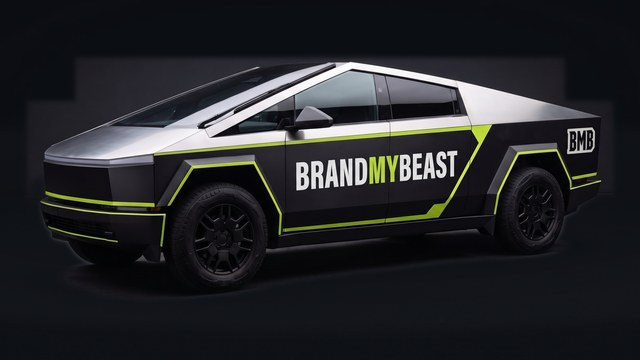
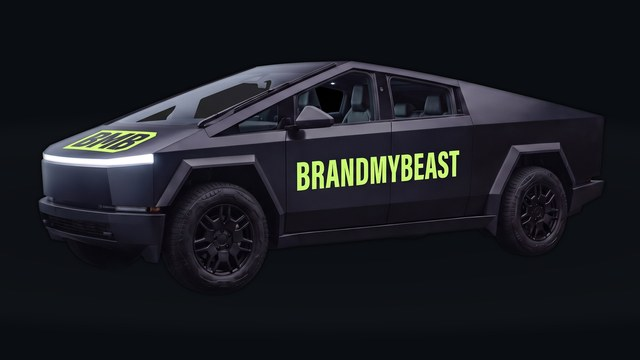
Ship locked hero-master (all-caps R1) to homepage (#422)
* feat(hero): ship locked hero-master still to homepage

Replace the wrap-C JPEGs with the locked all-caps R1 still at the existing
1280 and 640 public paths. Lead and caption stay concept photo.

* fix(test): align Playwright suite to the 11-seat board

Retarget stale 12-seat and seat-9 assertions to the locked inventory:
Eleven companies, tailgate as seat 10, legend 1-11, and current openings.

---------

diff --git a/tests/slice-16-48-demo-seed-numbers.spec.ts b/tests/slice-16-48-demo-seed-numbers.spec.ts
@@ -16,11 +16,11 @@ import { seedDemoMixedBoard } from "../src/lib/seed-demo";
 import { vercelJsonIsHoldOrMainOnlyRestore } from "../src/lib/vercel-git-deploy";
 
 /**
- * Slice 16.48 — local seed includes numbered standing on seat 1 and 9.
+ * Slice 16.48 — local seed includes numbered standing on seat 1 and 10.
  * Counts stay 3 pending / 1 approved / 1 outbid. CLOSE_AT null. No Stripe.
  */
 
-test.describe("slice 16.48: demo seed numbered standing on seats 1 and 9", () => {
+test.describe("slice 16.48: demo seed numbered standing on seats 1 and 10", () => {
   test.beforeEach(async () => {
     process.env.INTENT_MODE = "memory";
     await resetIntentStoreForTests();
@@ -34,7 +34,7 @@ test.describe("slice 16.48: demo seed numbered standing on seats 1 and 9", () =>
     expect(BRAND.name).toBe("BrandMyBeast");
     expect(formatUsd(FLOOR_USD)).toBe("$58,000");
     expect(panelBoardMarkFor("hood").n).toBe(1);
-    expect(panelBoardMarkFor("tailgate").n).toBe(9);
+    expect(panelBoardMarkFor("tailgate").n).toBe(10);
   });
 
   test("package.json has no stripe", () => {
@@ -45,7 +45,7 @@ test.describe("slice 16.48: demo seed numbered standing on seats 1 and 9", () =>
     expect(vercelJsonIsHoldOrMainOnlyRestore()).toBe(true);
   });
 
-  test("seed lists standing on seat 1 and seat 9", async () => {
+  test("seed lists standing on seat 1 and seat 10", async () => {
     const seeded = await seedDemoMixedBoard();
     expect(seeded.ok).toBe(true);
     if (!seeded.ok) return;
@@ -55,7 +55,7 @@ test.describe("slice 16.48: demo seed numbered standing on seats 1 and 9", () =>
     expect(seeded.closeAt).toBeNull();
     expect(seeded.numberedStanding).toEqual([
       { n: 1, panelId: "hood", status: "listed" },
-      { n: 9, panelId: "tailgate", status: "listed" },
+      { n: 10, panelId: "tailgate", status: "listed" },
     ]);
 
     const listed = await listBidsWithStatus("listed");
@@ -65,7 +65,7 @@ test.describe("slice 16.48: demo seed numbered standing on seats 1 and 9", () =>
     const sh = readFileSync(join(process.cwd(), "scripts/seed-demo.sh"), "utf8");
     expect(sh).toContain("16.48");
     expect(sh).toContain("seat 1");
-    expect(sh).toContain("seat 9");
+    expect(sh).toContain("seat 10");
     expect(sh).not.toMatch(/\bCLOSE_AT=/);
   });
 });

diff --git a/tests/slice-16-39-callout-contrast.spec.ts b/tests/slice-16-39-callout-contrast.spec.ts
@@ -41,6 +41,17 @@ test.describe("slice 16.39: callout contrast on stainless", () => {
   test("badge 3 against the still is at least 4.5:1", async ({ page }) => {
     await page.setViewportSize({ width: 1280, height: 900 });
     await page.goto("/panels/hood");
+    await page.locator(".truck-view-photo").evaluate((el) => {
+      const img = el as HTMLImageElement;
+      if (img.complete && img.naturalWidth > 0) return;
+      return new Promise<void>((resolve, reject) => {
+        img.addEventListener("load", () => resolve(), { once: true });
+        img.addEventListener("error", () => reject(new Error("still failed")), {
+          once: true,
+        });
+      });
+    });
+    await expect(page.getByTestId("view-panel-board-driver-3")).toBeVisible();
     const sample = await page.evaluate(() => {
       const callout = document.querySelector(
         '[data-testid="view-panel-board-driver-3"]',
@@ -70,7 +81,7 @@ test.describe("slice 16.39: callout contrast on stainless", () => {
         img.naturalWidth - 1,
         Math.max(
           0,
-          Math.round(((cr.right + 12 - ir.left) / ir.width) * img.naturalWidth),
+          Math.round(((cr.right + 36 - ir.left) / ir.width) * img.naturalWidth),
         ),
       );
       const sy = Math.min(

diff --git a/tests/slice-0-9-public-copy.spec.ts b/tests/slice-0-9-public-copy.spec.ts
@@ -43,10 +43,15 @@ test.describe("slice 0.9: PUBLIC_COPY v2 on /", () => {
   });
 
   test("PUBLIC_COPY module matches locked H1, lead, and Notify me", () => {
+    const md = readFileSync(join(process.cwd(), "PUBLIC_COPY.md"), "utf8");
     expect(PUBLIC_COPY.hero.h1).toBe(
       "Put your brand on the truck people already photograph.",
     );
-    expect(PUBLIC_COPY.hero.lead).toBe("Concept preview");
+    expect(PUBLIC_COPY.hero.lead).toBe("concept photo");
+    expect(PUBLIC_COPY.hero.caption).toBe("concept photo");
+    expect(md).toContain("- Lead: `concept photo`");
+    expect(md).toContain("- Hero caption: `concept photo`");
+    expect(md).not.toMatch(/- Lead: `Concept preview`/);
     expect(PUBLIC_COPY.waitlist.button).toBe("Notify me");
     expect(PUBLIC_COPY.board.raisedLabel.toLowerCase()).not.toContain(
       "pledged intent",
@@ -87,6 +92,7 @@ test.describe("slice 0.9: PUBLIC_COPY v2 on /", () => {
     expect(lower).not.toMatch(/pledged intent/);
     expect(lower).not.toMatch(/operator[- ]financ/);
     expect(html).toContain(PUBLIC_COPY.hero.h1);
+    expect(html).toContain("concept photo");
     expect(html).toContain("Notify me");
   });
 });

diff --git a/tests/slice-16-37-number-visual-diff.spec.ts b/tests/slice-16-37-number-visual-diff.spec.ts
@@ -39,11 +39,11 @@ test.describe("slice 16.37: numbers, not kerning", () => {
 
   test("this spec does not pixel-diff fixtures", () => {
     expect(missingBoardNumbers([1, 2, 3])).toEqual([
-      4, 5, 6, 7, 8, 9, 10, 11, 12,
+      4, 5, 6, 7, 8, 9, 10, 11,
     ]);
-    expect(
-      missingBoardNumbers([1, 2, 3, 4, 5, 6, 7, 8, 9, 10, 11, 12]),
-    ).toEqual([]);
+    expect(missingBoardNumbers([1, 2, 3, 4, 5, 6, 7, 8, 9, 10, 11])).toEqual(
+      [],
+    );
     const helper = readFileSync(
       join(process.cwd(), "src/lib/board-visual-diff.ts"),
       "utf8",
@@ -51,7 +51,7 @@ test.describe("slice 16.37: numbers, not kerning", () => {
     expect(helper).not.toMatch(/screenshot|pixelmatch/i);
   });
 
-  test("hero callouts 1 through 12 are present", async ({ page }) => {
+  test("legend numbers 1 through 11 are present", async ({ page }) => {
     await page.setViewportSize({ width: 1280, height: 900 });
     await page.goto("/");
     const present: number[] = [];

diff --git a/tests/slice-16-22-operator-list-columns.spec.ts b/tests/slice-16-22-operator-list-columns.spec.ts
@@ -85,7 +85,7 @@ test.describe("slice 16.22: operator list columns", () => {
       { key: "panel", value: mark.name },
       { key: "brand", value: "Column Brand" },
       { key: "trade", value: "column trade" },
-      { key: "amount", value: formatUsd(1600) },
+      { key: "amount", value: formatUsd(4500) },
       { key: "status", value: intentStatusLabel(placed.bid.status) },
     ]);
     expect(JSON.stringify(columns)).not.toContain("ops1622-secret-user");
@@ -130,7 +130,7 @@ test.describe("slice 16.22: operator list columns", () => {
       "column ui trade",
     );
     await expect(page.getByTestId(`operator-col-amount-${bidId}`)).toHaveText(
-      "$1,600",
+      "$4,500",
     );
     await expect(page.getByTestId(`operator-col-status-${bidId}`)).toHaveText(
       "Listed",

diff --git a/tests/campaign.spec.ts b/tests/campaign.spec.ts
@@ -61,14 +61,8 @@ test.describe("P1 waitlist campaign locks", () => {
     await expect(page.getByTestId("hero-preview-label")).toHaveText(
       PUBLIC_COPY.hero.caption,
     );
-    await expect(page.getByTestId("hero-preview-label")).toContainText(
-      "Concept preview",
-    );
-    await expect(page.getByTestId("hero-preview-label")).toContainText(
-      "house wrap",
-    );
-    await expect(page.getByTestId("hero-preview-label")).toContainText(
-      "Numbers live on the board",
+    await expect(page.getByTestId("hero-preview-label")).toHaveText(
+      "concept photo",
     );
     await expect(page.getByTestId("hero-panel-board")).toHaveCount(0);
     await expect(page.locator("#hero-title")).toHaveText(HERO_TITLE);

diff --git a/tests/ux-locks-concept-board.spec.ts b/tests/ux-locks-concept-board.spec.ts
@@ -43,7 +43,10 @@ test.describe("UX locks: concept lead, baked board, etch, CTA, wrap blend", () =
     await page.evaluate(() => document.fonts.ready);
 
     await expect(page.locator("#hero-title")).toHaveText(PUBLIC_COPY.hero.h1);
-    await expect(page.locator(".hero-lead")).toHaveText("Concept preview");
+    await expect(page.locator(".hero-lead")).toHaveText("concept photo");
+    await expect(page.getByTestId("hero-preview-label")).toHaveText(
+      "concept photo",
+    );
     await expect(page.locator(".hero-lead")).not.toContainText("Twelve companies");
     await expect(page.getByTestId("hero-truck-preview")).toHaveAttribute(
       "href",

diff --git a/tests/slice-20-9-waitlist-meta-description.spec.ts b/tests/slice-20-9-waitlist-meta-description.spec.ts
@@ -22,7 +22,7 @@ import { vercelJsonIsHoldOrMainOnlyRestore } from "../src/lib/vercel-git-deploy"
 const ROOT = process.cwd();
 const LOCKED_H1 = "Put your brand on the truck people already photograph.";
 const WAITLIST_DESCRIPTION =
-  "Twelve companies. One Cyberbeast. Join the list. Hit $58,000 and the truck is ordered and wrapped for a year. Miss it and nobody pays.";
+  "Eleven companies. One Cyberbeast. Join the list. Hit $58,000 and the truck is ordered and wrapped for a year. Miss it and nobody pays.";
 
 test.describe("slice 20.9: waitlist-era meta description", () => {
   test("campaign money fences stay locked — CLOSE_AT null", () => {

diff --git a/tests/slice-7-10-layout-meta.spec.ts b/tests/slice-7-10-layout-meta.spec.ts
@@ -46,7 +46,7 @@ test.describe("slice 7.10: layout meta matches PUBLIC_COPY", () => {
     );
     expect(PUBLIC_COPY.meta.title).not.toMatch(/advertise on a Cybertruck/i);
     expect(PUBLIC_COPY.meta.description).toBe(
-      "Twelve companies. One Cyberbeast. Join the list. Hit $58,000 and the truck is ordered and wrapped for a year. Miss it and nobody pays.",
+      "Eleven companies. One Cyberbeast. Join the list. Hit $58,000 and the truck is ordered and wrapped for a year. Miss it and nobody pays.",
     );
     expect(PUBLIC_COPY.meta.description).not.toMatch(/Bid on a panel/);
   });

diff --git a/src/lib/public-copy.ts b/src/lib/public-copy.ts
@@ -33,13 +33,12 @@ export const PUBLIC_COPY = {
   },
   hero: {
     h1: "Put your brand on the truck people already photograph.",
-    lead: "Concept preview",
+    lead: "concept photo",
     primaryCta: "Get on the list",
     secondaryCta: "See the eleven panels",
     imageAlt:
       "Concept preview — BrandMyBeast house wrap. Seats are not sold yet.",
-    caption:
-      "Concept preview — BrandMyBeast house wrap. Seats are not sold yet. Numbers live on the board below.",
+    caption: "concept photo",
   },
   board: {
     heading: "The numbers",

diff --git a/tests/slice-8-4-operator-csv.spec.ts b/tests/slice-8-4-operator-csv.spec.ts
@@ -131,7 +131,7 @@ test.describe("slice 8.4: operator CSV export", () => {
     expect(csv.split("\n")[0]).toBe(OPERATOR_CSV_HEADERS.join(","));
     expect(csv).toContain("waitlist,wait@example.com,homepage");
     expect(csv).toContain("intent,,,hood,1,CsvListed");
-    expect(csv).toContain("intent,,,tailgate,9,CsvApproved");
+    expect(csv).toContain("intent,,,tailgate,10,CsvApproved");
     expect(csv).not.toContain("CsvRejected");
     expect(csv.toLowerCase()).not.toMatch(/\blease\b/);
   });

diff --git a/tests/slice-16-38-reduce-motion.spec.ts b/tests/slice-16-38-reduce-motion.spec.ts
@@ -38,7 +38,7 @@ test.describe("slice 16.38: reduced motion keeps callouts still", () => {
     await page.emulateMedia({ reducedMotion: "reduce" });
     await page.setViewportSize({ width: 1280, height: 900 });
     await page.goto("/panels/hood");
-    for (const n of [1, 3, 9, 12]) {
+    for (const n of [1, 3, 4, 10]) {
       const callout = page.getByTestId(`view-panel-board-driver-${n}`);
       await expect(callout).toBeVisible();
       const motion = await callout.evaluate((el) => {
